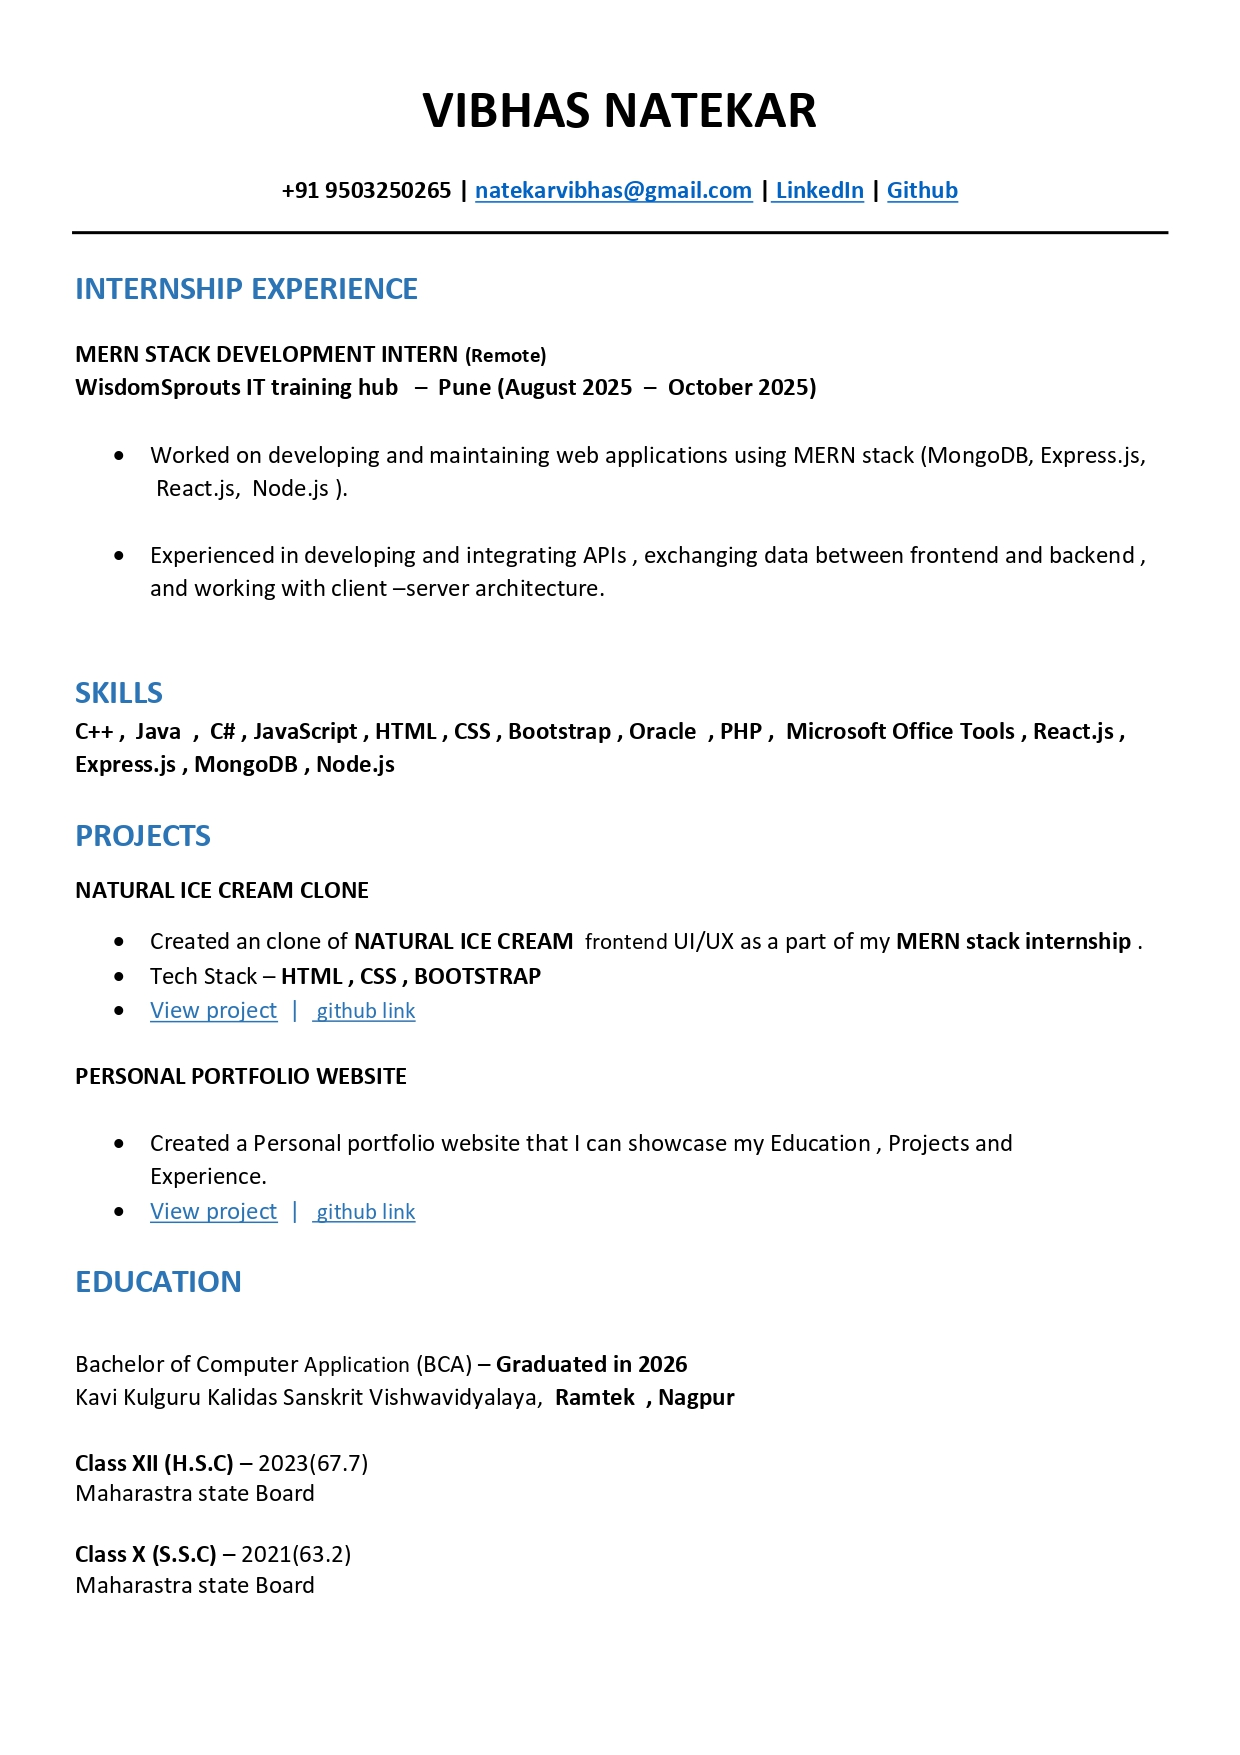
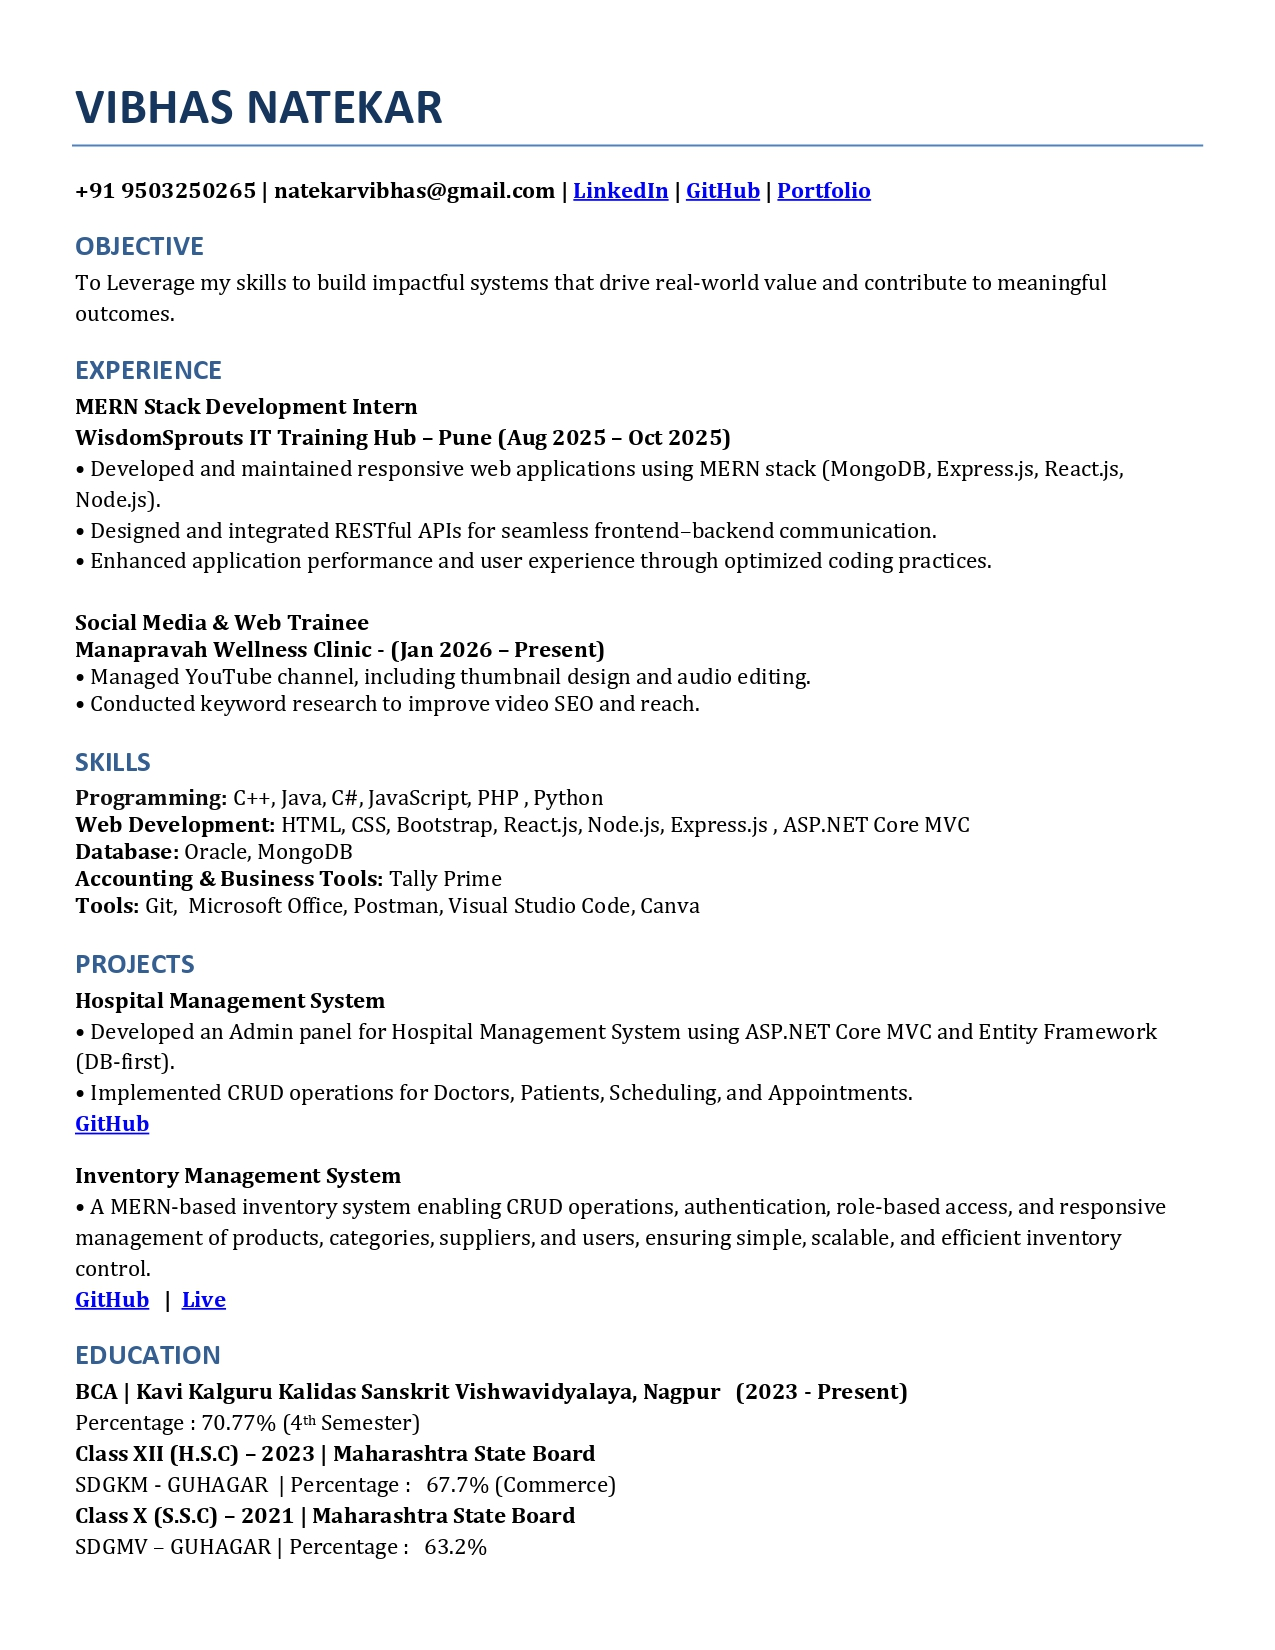
Update my resume and skillsets

Changed region(s): [[0.0613, 0.0309, 0.9194, 0.9582], [0.6435, 0.8345, 0.7048, 0.8655]]

diff --git a/src/components/SkillSets.jsx b/src/components/SkillSets.jsx
@@ -1,9 +1,10 @@
 
-import {  SiCplusplus, SiCss3, SiExpress, SiGit, SiHtml5, SiJavascript, SiMongodb, SiNodedotjs, SiOracle, SiPhp, SiPostman, SiReact, SiRender,  SiXampp } from 'react-icons/si'
+import {  SiAndroidstudio, SiCplusplus, SiCss3, SiExpress, SiGit, SiHtml5, SiJavascript, SiMongodb, SiNodedotjs, SiOracle, SiPhp, SiPostman, SiReact, SiRender,  SiXampp } from 'react-icons/si'
 import './Skillsets.css'
-import { DiJava} from 'react-icons/di'
+import { DiJava, DiPhp, DiPython, DiVisualstudio} from 'react-icons/di'
 
 import { BiLogoChrome, BiLogoGithub, BiLogoNetlify, BiLogoVisualStudio } from 'react-icons/bi'
+import { FcAndroidOs } from 'react-icons/fc'
 
 
 const SkillSets = () => {
@@ -35,6 +36,8 @@ const SkillSets = () => {
                      
 
                       <h2 className='skil-badge'>  <span><DiJava/></span> Java</h2>
+                      <h2 className='skil-badge' > <span> <DiPython/> </span> Python </h2>
+                      <h2 className='skil-badge'> <span> <DiPhp/> </span> PHP </h2>
                       <h2 className='skil-badge'>  <span><SiGit/></span>Git</h2>
 
                       <h2 className='skil-badge'>  <span><SiPostman/></span> Postman</h2>
@@ -57,6 +60,8 @@ const SkillSets = () => {
                       <h2 className='skil-badge'>  <span><BiLogoNetlify/></span> Netlify </h2>
                       <h2 className='skil-badge'>  <span><SiRender/></span>Render </h2>
                       <h2 className='skil-badge'>  <span><SiXampp/></span>Xampp </h2>
+                      <h2 className='skil-badge'> <span><DiVisualstudio/></span> Visual Studio </h2>
+                      <h2 className='skil-badge'> <span> <SiAndroidstudio/>  </span> Android Studio </h2>
 
 
 

diff --git a/src/components/Footer.jsx b/src/components/Footer.jsx
@@ -15,7 +15,7 @@ const Footer = () => {
     <div className="footer-wrapper">
       <div className="footer-container">
         <p >Designed and Developed by Vibhas Natekar</p>
-        <p className='copy'>Copyright   <LuCopyright/>  2025 Vn</p>
+        <p className='copy'>Copyright   <LuCopyright/>  2026 Vn</p>
         <div className="social_icons">
           <h2> <a href="https://github.com/vibhasJayavantNatekar/Inventory-App.git"><BiLogoGithub/></a> <a href="https://www.linkedin.com/in/vibhas-natekar-75a410232?utm_source=share&utm_campaign=share_via&utm_content=profile&utm_medium=android_app"> <RxLinkedinLogo/> </a> </h2>
         </div>
